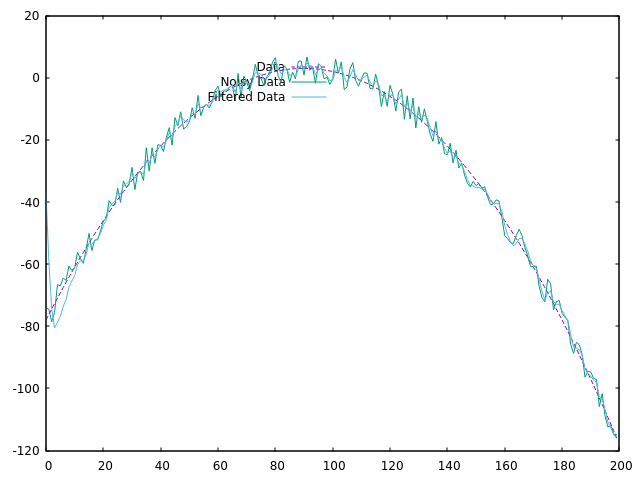
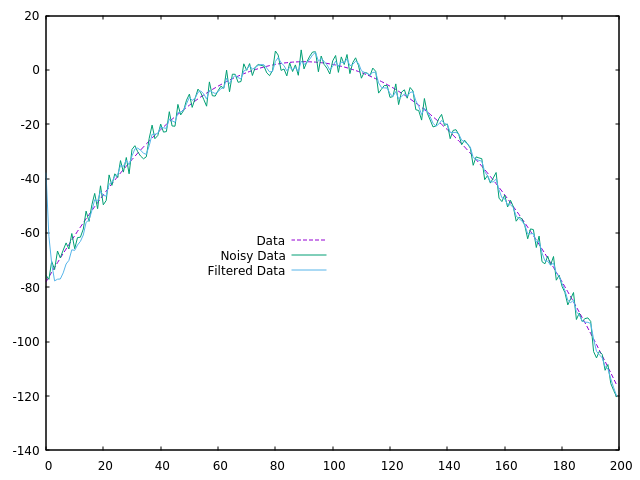
Update gnuplot legend
Move the legend so it doesn't overlap the plot...

diff --git a/src/main.rs b/src/main.rs
@@ -162,7 +162,7 @@ fn main() {
 
     let mut fig = Figure::new();
     fig.axes2d()
-        .set_legend(Graph(0.5), Graph(0.9), &[], &[])
+        .set_legend(Graph(0.5), Graph(0.5), &[], &[])
         .lines(
             &range[..],
             &data[..],
